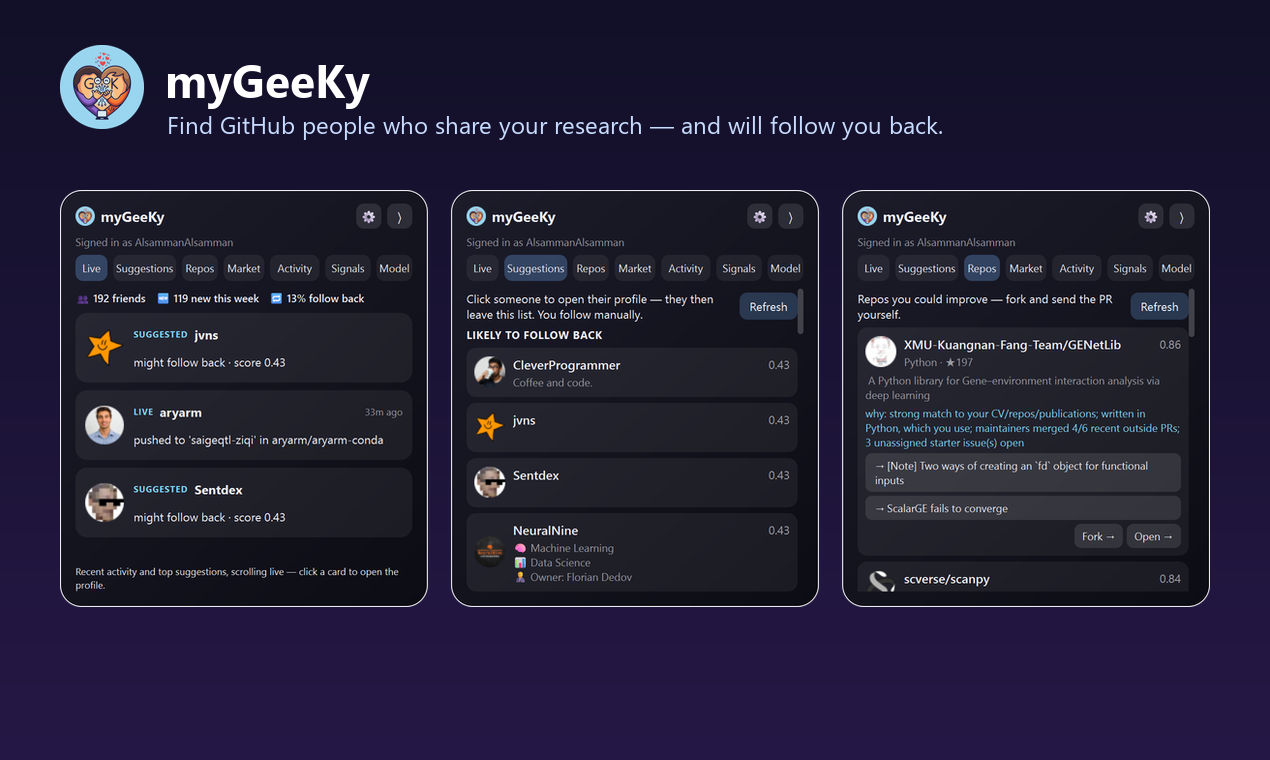
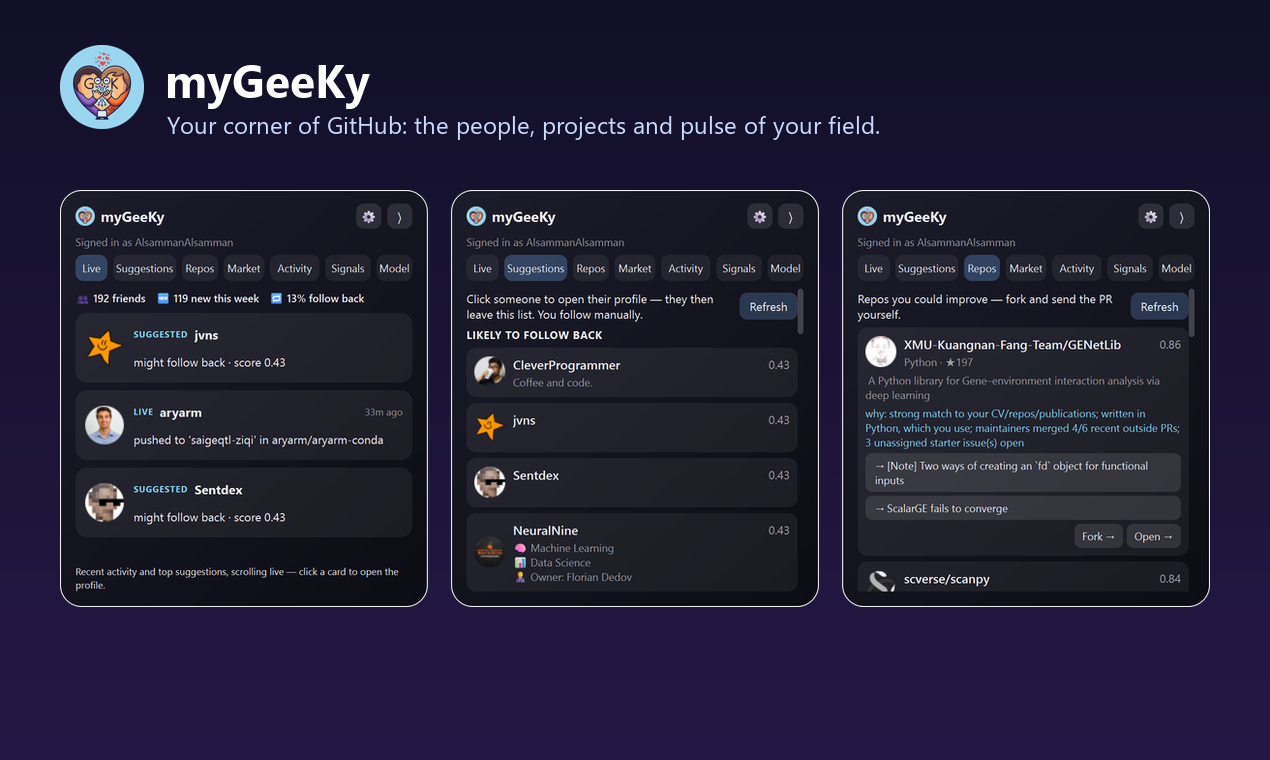
README: present myGeeKy as people, projects and pulse of your field, not just people-finding

Changed region(s): [[0.1228, 0.1513, 0.737, 0.1816]]

diff --git a/launch/producthunt/make_gallery.py b/launch/producthunt/make_gallery.py
@@ -76,14 +76,14 @@ def hero():
     icon = Image.open(ROOT / "src/mygeeky/gui/assets/icon_128.png").convert("RGBA").resize((84, 84))
     im.alpha_composite(icon, (60, 45))
     d.text((165, 48), "myGeeKy", font=font(46, True), fill="white")
-    d.text((167, 108), "Find GitHub people who share your research — and will follow you back.",
+    d.text((167, 108), "Your corner of GitHub: the people, projects and pulse of your field.",
            font=font(24), fill=(200, 220, 255))
     return im
 
 
 SLIDES = [
     ("hero", None),
-    ("suggestions", ([SHOTS / "suggestions.png"], "People in your field who'll actually follow back",
+    ("suggestions", ([SHOTS / "suggestions.png"], "People in your field worth following",
                      "Built from your CV, repos, ORCID & Google Scholar papers. Ranked by real follow-back odds.")),
     ("signals", ([SHOTS / "signals.png"], "Signals: say hi without words",
                  "Wave, \"I learn from you\", \"let's collaborate\" or \"following your work\": one click each, "

diff --git a/README.md b/README.md
@@ -5,8 +5,9 @@
 <h1 align="center">myGeeKy</h1>
 
 <p align="center">
-  <b>Find GitHub people who share your research — and will actually follow you back.</b><br>
-  <sub>Your CV, your repos, your ORCID &amp; Google Scholar papers → people and projects worth your time.</sub>
+  <b>Your corner of GitHub: the people, projects and pulse of your field.</b><br>
+  <sub>From your CV, repos, ORCID and Google Scholar papers: who to follow, what to contribute to,
+  what's rising, and a friendly 👋 from fellow geeks. All in one small panel.</sub>
 </p>
 
 <p align="center">
@@ -19,9 +20,10 @@
 </p>
 
 <p align="center">
+  <a href="#-whats-inside">What's inside</a> ·
   <a href="#-quick-start">Quick start</a> ·
   <a href="#-the-live-panel">Live panel</a> ·
-  <a href="#how-it-works">How it works</a> ·
+  <a href="#signal-other-mygeeky-users-without-words-mygeeky-beacon">Signals</a> ·
   <a href="#safety">Safety</a> ·
   <a href="#all-parameters-adjustable-or-leave-at-the-defaults">All settings</a>
 </p>
@@ -29,12 +31,28 @@
 <p align="center">
   <img src="https://raw.githubusercontent.com/AlsammanAlsamman/myGeeKy/main/docs/screenshots/hero.png" width="900" alt="The myGeeKy panel's Live, Suggestions and Repos tabs, side by side">
 </p>
-<p align="center"><sub><em>Real screenshots, real data: the Live feed, people likely to follow back, and repos you could contribute to.</em></sub></p>
+<p align="center"><sub><em>Real screenshots, real data: the Live feed, people worth following, and repos you could contribute to.</em></sub></p>
 
-> **Why this exists:** I don't have Facebook. I only want to follow people
-> I can genuinely learn from — and who might learn something from me too.
-> myGeeKy is a GitHub-friendly alternative for people like me: we want real
-> friends, and we're wary of fake ones.
+> **Why this exists:** I don't have Facebook. I wanted a real circle in my
+> field: people I can genuinely learn from (and who might learn something
+> from me too), projects where my work would actually be welcome, and a
+> feel for where the field is moving. GitHub has all of that, but scattered
+> and buried under famous accounts. myGeeKy gathers it in one place.
+
+## 🧭 What's inside
+
+One profile (your CV, your repos, and optionally your ORCID/OpenAlex and
+Google Scholar papers) powers everything:
+
+| | What you get | Command | Panel tab |
+|---|---|---|---|
+| 👥 **People** | Who shares your research and is likely to follow back, plus domain experts who rarely follow anyone | `mygeeky run` | Suggestions |
+| 🛠 **Projects** | Repos in your field you could improve: open starter issues, maintainers who merge outside PRs | `mygeeky contribute` | Repos |
+| 📈 **Pulse** | Your field's popular repos ranked by momentum: stars gained, commits, PyPI downloads | `mygeeky market` | Market |
+| 📰 **Activity** | What the people you follow, and your best matches, are doing right now | (in the panel) | Activity · Live |
+| 👋 **Signals** | Emoji-only signals between myGeeKy users, and a 🤝 handshake when it's mutual | `mygeeky beacon` | Signals |
+| 🧠 **Learning** | A model trained on who actually follows *you* back, getting sharper every week | `mygeeky learn` | Model |
+| ☁ **Sync** | Your data in a private GitHub repo you own, on every computer | `mygeeky sync` | |
 
 ## ✨ Highlights
 
@@ -43,17 +61,17 @@
 <td width="50%" valign="top">
 
 **🧬 Knows your field, not just your language**<br>
-Builds your profile from your CV, your GitHub repos, and — if you give
-them — your ORCID/OpenAlex and Google Scholar publications. Finds people
-through the repos *in your field* they own and contribute to.
+Builds your profile from your CV, your GitHub repos, and, if you give
+them, your ORCID/OpenAlex and Google Scholar publications. Everything it
+suggests is matched against *your* research, not a generic popularity list.
 
 </td>
 <td width="50%" valign="top">
 
-**🔁 Ranks by real follow-back odds**<br>
-Skips famous accounts that follow almost nobody, mass-followers,
-organizations and dormant profiles — then learns from who actually
-followed you back, and gets better every week.
+**👥 People worth following**<br>
+Skips famous accounts that follow almost nobody, mass-followers and dormant
+profiles, and learns from who actually followed you back. A second list
+surfaces the domain experts a follow-back score would bury.
 
 </td>
 </tr>
@@ -67,26 +85,9 @@ how often their maintainers merge outside contributors' PRs.
 </td>
 <td valign="top">
 
-**🪟 A glass panel on your screen edge**<br>
-Live feed of what your friends are doing, your suggestions and repos —
-always on top, three themes, folds down to a small icon that now and then
-lets out a few floating hearts.
-
-</td>
-</tr>
-<tr>
-<td valign="top">
-
-**☁ Your data, on every computer**<br>
-Optional sync through a **private** GitHub repo you own. No server, no
-account, no telemetry.
-
-</td>
-<td valign="top">
-
-**🛡 Suggest-only, by design**<br>
-There is **no follow/unfollow code in this project at all**. You look,
-you click, you follow people yourself, by hand, on github.com.
+**📈 The pulse of your field**<br>
+A daily "stock race" of your field's repos: who gained stars, who's
+shipping commits, whose PyPI downloads are climbing, and who moved up.
 
 </td>
 </tr>
@@ -100,9 +101,41 @@ using emoji only and no server. 🤝 Handshake when it's mutual.
 </td>
 <td valign="top">
 
+**🪟 A glass panel on your screen edge**<br>
+All of it live, always on top, in three themes. It folds down to a small
+icon that now and then lets out a few floating hearts.
+
+</td>
+</tr>
+<tr>
+<td valign="top">
+
+**🛡 Suggest-only, by design**<br>
+There is **no follow, star or fork code in this project at all**. You look,
+you click, and you act yourself, by hand, on github.com.
+
+</td>
+<td valign="top">
+
+**☁ Yours, on every computer**<br>
+Optional sync through a **private** GitHub repo you own. No server, no
+account, no telemetry.
+
+</td>
+</tr>
+<tr>
+<td valign="top">
+
 **🪄 One-click Windows installer** <sup>new</sup><br>
 Next → Next → Finish. It sets up Python, your token, private sync and
 shortcuts for you, and you can uninstall it from *Settings → Apps*.
+
+</td>
+<td valign="top">
+
+**🤖 Scriptable**<br>
+Every command has `--json`, so scripts and AI agents can use myGeeKy
+as easily as you can.
 
 </td>
 </tr>
@@ -184,7 +217,9 @@ zero dependencies.)
 happens — myGeeKy has no follow/unfollow code anywhere in the project; see
 [Safety](#safety).*
 
-## What it does
+## Finding people (`mygeeky run`)
+
+How the people suggestions are made:
 
 1. **Understands you** — reads your CV (txt/md/pdf), your own GitHub
    repos (languages, topics, descriptions) and, if you give them, your

diff --git a/launch/producthunt/LAUNCH.md b/launch/producthunt/LAUNCH.md
@@ -6,7 +6,7 @@ Submit at https://www.producthunt.com/posts/new (logged in as the maker).
 myGeeKy
 
 ## Tagline (≤ 60)
-Find GitHub people in your field who'll follow you back
+The people, projects & pulse of your field on GitHub
 
 ## Links
 - Website: https://github.com/AlsammanAlsamman/myGeeKy
@@ -14,7 +14,7 @@ Find GitHub people in your field who'll follow you back
 - Windows installer: https://github.com/AlsammanAlsamman/myGeeKy/releases/latest
 
 ## Description (≤ 260)
-myGeeKy reads your CV, GitHub repos and ORCID/Google Scholar papers and suggests people in your field who are likely to follow you back, plus repos to contribute to. It learns who actually follows back. It only suggests; it never follows anyone for you.
+myGeeKy reads your CV, repos and ORCID/Scholar papers, then shows who in your field to follow, repos you could contribute to, what's rising, and emoji signals from fellow users, in one small desktop panel. It only suggests; it never acts for you.
 
 ## Topics (pick 3)
 Developer Tools · Open Source · GitHub
